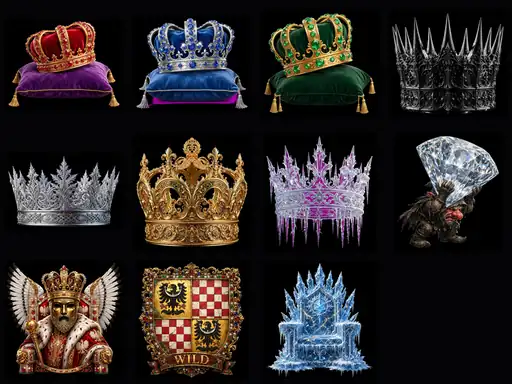
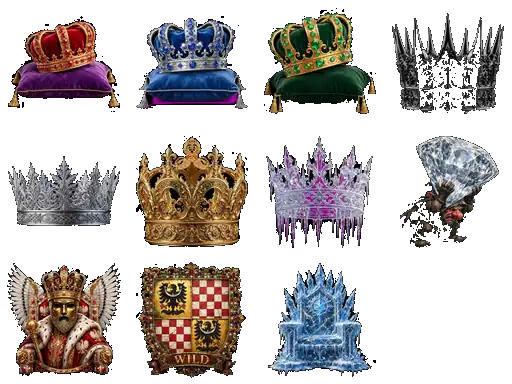
art: transparent symbols and cleaner premium playfield

diff --git a/casino/slot.js b/casino/slot.js
@@ -15,7 +15,7 @@
   const POOL = 5;
   const CELL = 148;
   const GAP = 8;
-  const SYMBOL_SIZE = 112;
+  const SYMBOL_SIZE = 124;
   const GRID_W = REELS * CELL + (REELS - 1) * GAP;
   const GRID_H = ROWS * CELL + (ROWS - 1) * GAP;
   const GRID_X = (VIEW_W - GRID_W) / 2;
@@ -127,7 +127,7 @@
 
       for(let i=0;i<POOL;i++){
         const key=randomSymbol(), sy=y+(i-1)*(CELL+GAP)+CELL/2;
-        const shadow=scene.add.ellipse(x+CELL/2,sy+41,82,20,0x000000,.34).setDepth(2).setMask(this.mask);
+        const shadow=null;
         const s=scene.add.image(x+CELL/2,sy,'symbols',FRAME[key]).setDepth(3);
         s.setDisplaySize(SYMBOL_SIZE,SYMBOL_SIZE); s.setMask(this.mask); s.setData('key',key); s.setData('shadow',shadow);
         s.setData('baseScaleX',s.scaleX); s.setData('baseScaleY',s.scaleY); this.sprites.push(s);
@@ -189,13 +189,13 @@
     }
     buildScene(){
       const g=this.add.graphics();
-      g.fillGradientStyle(0x26142d,0x26142d,0x060508,0x060508,1);g.fillRoundedRect(10,10,VIEW_W-20,VIEW_H-20,26);
-      g.lineStyle(4,0x8c5b1e,.96);g.strokeRoundedRect(10,10,VIEW_W-20,VIEW_H-20,26);g.lineStyle(2,0xe2b958,.52);g.strokeRoundedRect(18,18,VIEW_W-36,VIEW_H-36,22);
+      g.fillGradientStyle(0x24132d,0x24132d,0x050407,0x050407,1);g.fillRoundedRect(6,6,VIEW_W-12,VIEW_H-12,22);
+      g.lineStyle(1,0xe0b65a,.24);g.strokeRoundedRect(8,8,VIEW_W-16,VIEW_H-16,20);
       const vault=this.add.graphics().setDepth(0);vault.lineStyle(2,0xc18a37,.08);vault.strokeCircle(VIEW_W/2,VIEW_H/2+28,530);vault.strokeCircle(VIEW_W/2,VIEW_H/2+28,600);vault.lineStyle(1,0xffffff,.025);for(let a=0;a<12;a++){const r=P.Math.DegToRad(a*30);vault.lineBetween(VIEW_W/2+Math.cos(r)*245,VIEW_H/2+28+Math.sin(r)*245,VIEW_W/2+Math.cos(r)*300,VIEW_H/2+28+Math.sin(r)*300);}
       const beam=this.add.graphics().setDepth(0).setBlendMode(P.BlendModes.ADD);beam.fillStyle(0xffd987,.035);beam.fillTriangle(110,0,390,0,560,590);beam.fillTriangle(790,0,510,0,340,590);
       this.add.text(VIEW_W/2,48,'♛  ROYAL ARC  ♛',{fontFamily:'Georgia,serif',fontSize:'30px',color:'#ffe49a',stroke:'#2a1307',strokeThickness:5,shadow:{offsetX:0,offsetY:2,color:'#000000',blur:6,fill:true}}).setOrigin(.5);
       this.add.text(VIEW_W/2,88,'THE CROWN VAULT',{fontFamily:'Arial,sans-serif',fontSize:'13px',fontStyle:'bold',color:'#c9a96c',letterSpacing:5}).setOrigin(.5);
-      const plate=this.add.graphics().setDepth(0);plate.fillStyle(0x030304,.97);plate.fillRoundedRect(GRID_X-18,GRID_Y-18,GRID_W+36,GRID_H+36,20);plate.lineStyle(6,0x6f4517,.95);plate.strokeRoundedRect(GRID_X-18,GRID_Y-18,GRID_W+36,GRID_H+36,20);plate.lineStyle(2,0xf0c96c,.6);plate.strokeRoundedRect(GRID_X-9,GRID_Y-9,GRID_W+18,GRID_H+18,14);
+      const plate=this.add.graphics().setDepth(0);plate.fillStyle(0x030304,.97);plate.fillRoundedRect(GRID_X-18,GRID_Y-18,GRID_W+36,GRID_H+36,20);plate.lineStyle(2,0xb77a2d,.72);plate.strokeRoundedRect(GRID_X-16,GRID_Y-16,GRID_W+32,GRID_H+32,18);plate.lineStyle(1,0xf0c96c,.34);plate.strokeRoundedRect(GRID_X-7,GRID_Y-7,GRID_W+14,GRID_H+14,12);
       const div=this.add.graphics().setDepth(5);div.lineStyle(1,0xe8bd60,.24);for(let r=1;r<ROWS;r++){const y=GRID_Y+r*CELL+(r-.5)*GAP;div.lineBetween(GRID_X+4,y,GRID_X+GRID_W-4,y);}for(let c=1;c<REELS;c++){const x=GRID_X+c*CELL+(c-.5)*GAP;div.lineBetween(x,GRID_Y+5,x,GRID_Y+GRID_H-5);}
       this.add.text(VIEW_W/2,642,'WILD  •  SCATTER  •  FREE SPINS',{fontFamily:'Arial,sans-serif',fontSize:'11px',color:'#a98a5e',letterSpacing:4}).setOrigin(.5);
     }
